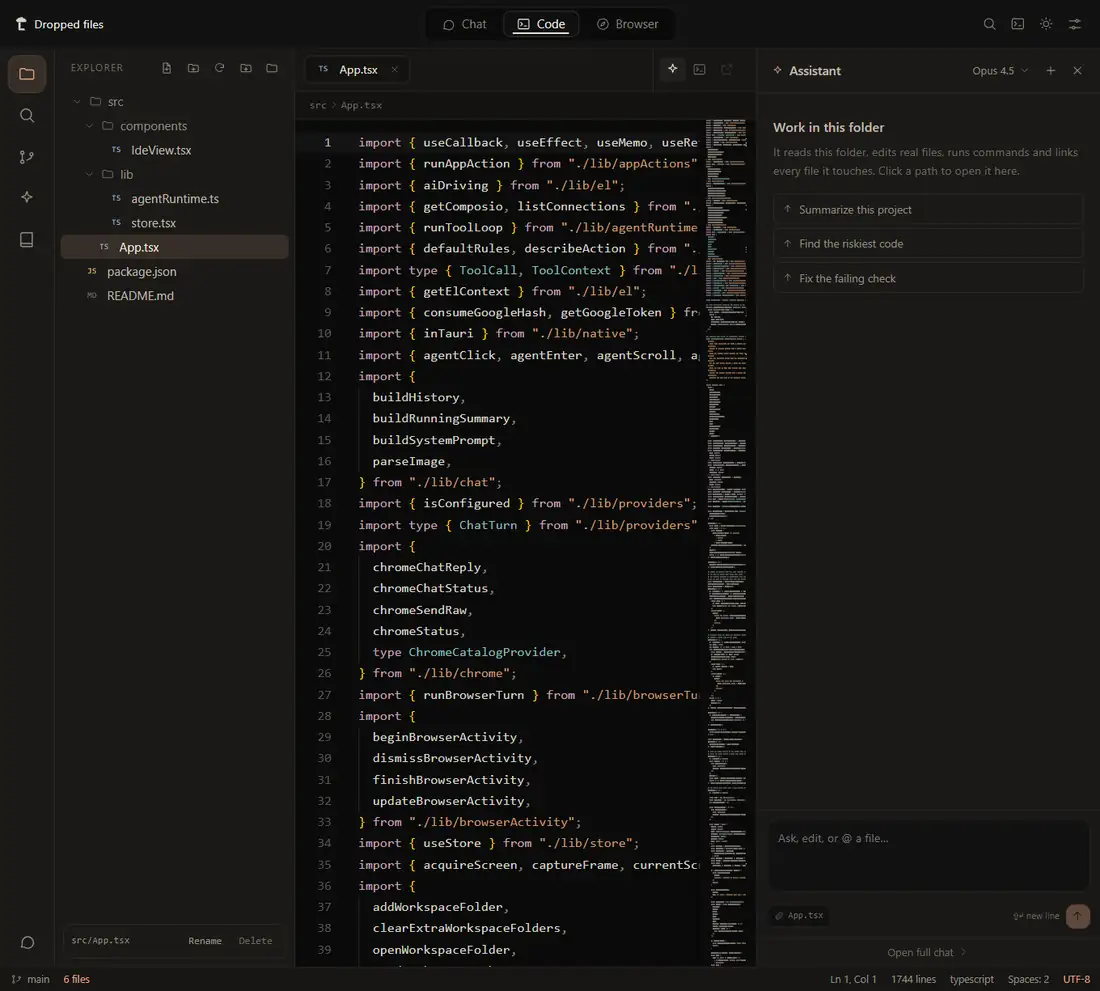
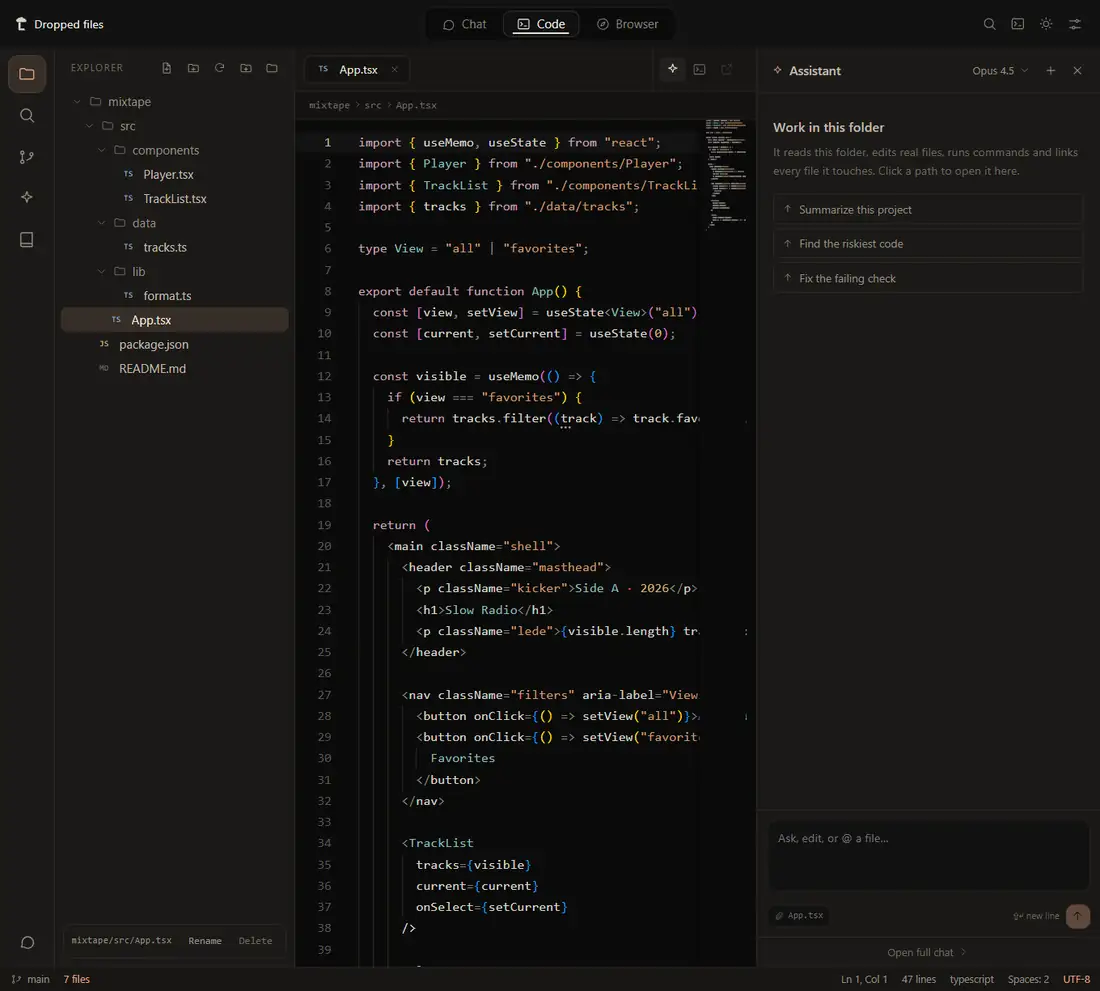
Use a source-free Code screenshot on the website

diff --git a/index.html b/index.html
@@ -325,7 +325,7 @@
     <div class="shots-grid" data-reveal>
       <figure class="shot shot-wide">
         <img src="assets/img/app-code.webp" alt="Lantas Code: the file explorer, a Monaco editor with App.tsx open, tabs and the assistant panel beside them" width="1100" height="991" loading="lazy">
-        <figcaption><b>Code</b><span>A real workspace: Monaco, the file tree, tabs and the assistant, inside the app's own title bar.</span></figcaption>
+        <figcaption><b>Code</b><span>A sample workspace in the real Code surface: Monaco, the file tree, tabs and the assistant, inside the app's own title bar.</span></figcaption>
       </figure>
       <figure class="shot">
         <img src="assets/img/app-home.webp" alt="Lantas Home: the composer, agent modes and new-thread suggestions" width="720" height="649" loading="lazy">
